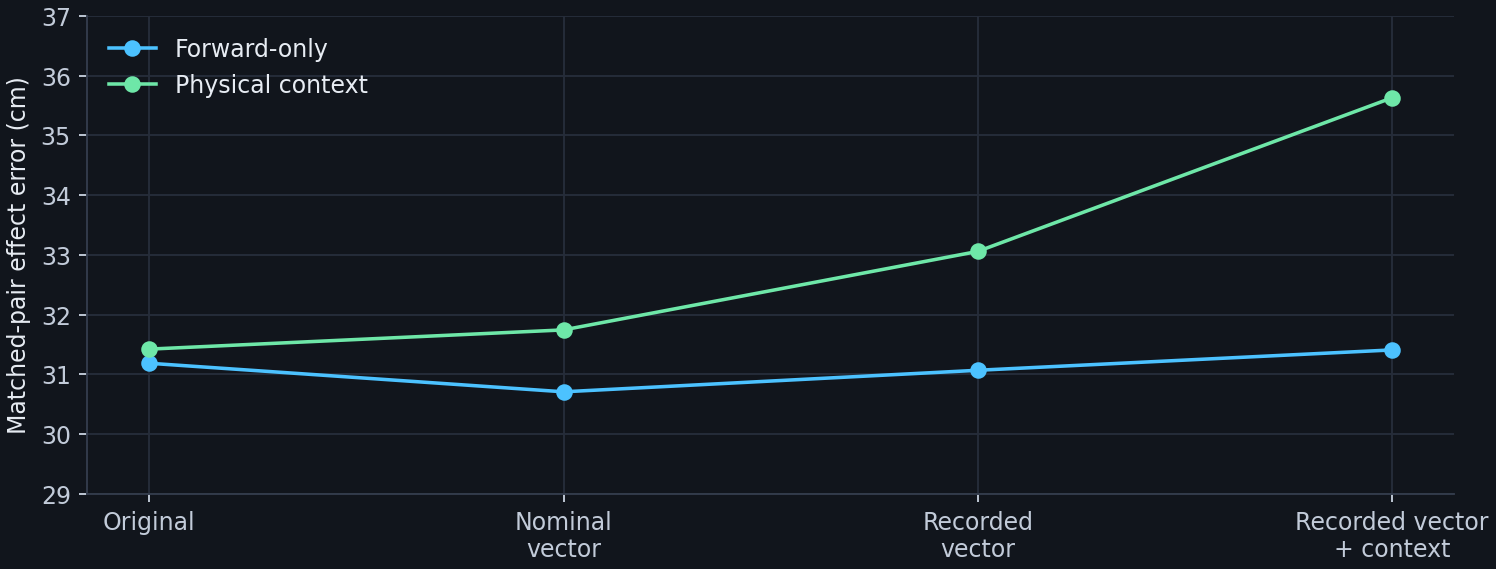
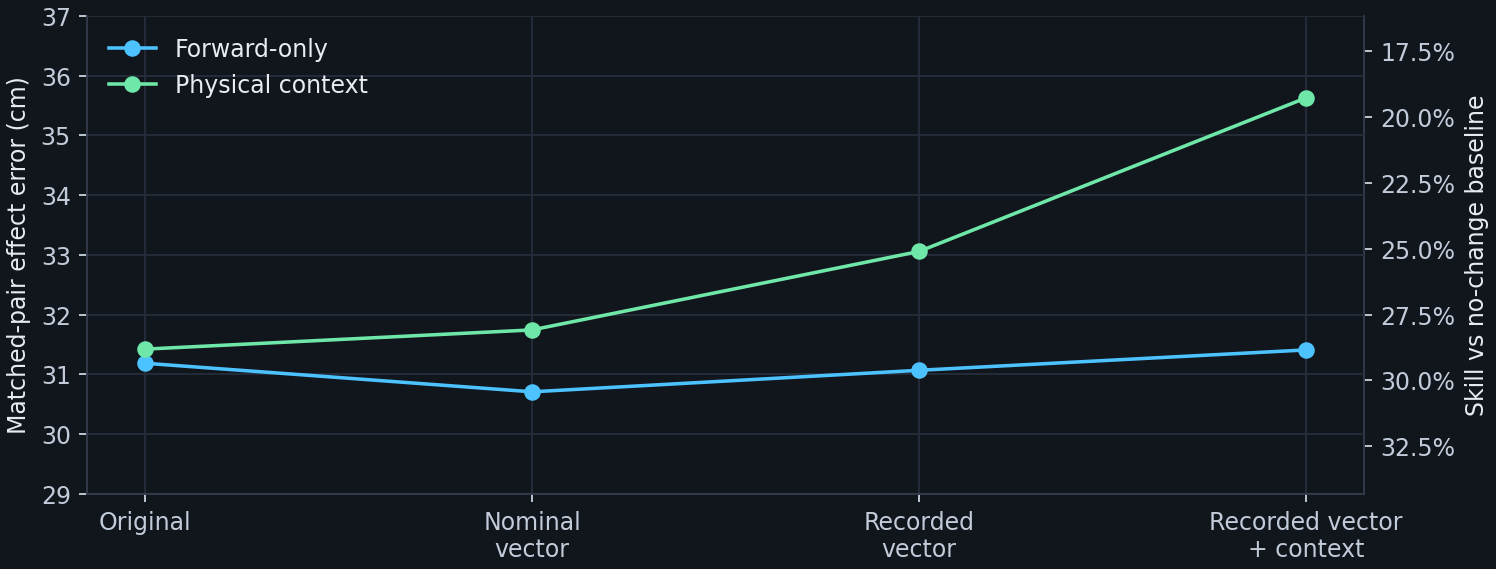
docs: show M0 skill against static baseline

diff --git a/m0/index.html b/m0/index.html
@@ -17,8 +17,31 @@
       Each ran for 3,750 optimizer steps with seed 1 and was evaluated on the same
       100 matched scene families.</p>
 
+    <section class="result-card" id="effect-skill" aria-labelledby="skill-heading">
+      <h2 id="skill-heading">Matched-pair skill by effect size</h2>
+      <p>Skill is one minus total model error divided by total no-change baseline error.
+        A score of 100% is perfect, 0% ties the baseline, and a negative score is worse.
+        Each group contains 100 pairs, sorted by the size of the simulator's endpoint change.</p>
+      <figure>
+        <a href="effect-skill.png"><img src="effect-skill.png" width="1496" height="629"
+          alt="All recipes beat the no-change baseline for medium and strong effects. The weak-effect estimates have wider confidence intervals."></a>
+        <figcaption>Intervals resample scene families from seed 1. The cutoffs use the ground-truth endpoint change between each original and altered push.</figcaption>
+      </figure>
+      <div class="result-table" tabindex="0" role="region" aria-label="Skill by effect size">
+        <table>
+          <thead><tr><th scope="col">Training recipe</th><th scope="col">All pairs</th><th scope="col">Weak<br>&lt;13.9 cm</th><th scope="col">Medium<br>13.9–46.0 cm</th><th scope="col">Strong<br>≥46.0 cm</th></tr></thead>
+          <tbody>
+            <tr><th scope="row">Forward-only</th><td>28.3%</td><td>18.3%</td><td>40.6%</td><td>25.9%</td></tr>
+            <tr><th scope="row">Inverse dynamics</th><td>29.5%</td><td>25.1%</td><td>44.1%</td><td>26.1%</td></tr>
+            <tr><th scope="row">Physical context</th><td>29.0%</td><td>27.2%</td><td>42.3%</td><td>25.8%</td></tr>
+            <tr><th scope="row">Both</th><td>24.9%</td><td>17.1%</td><td>36.8%</td><td>22.4%</td></tr>
+          </tbody>
+        </table>
+      </div>
+    </section>
+
     <section class="result-card" aria-labelledby="screen-heading">
-      <h2 id="screen-heading">Matched-pair effect error</h2>
+      <h2 id="screen-heading">Preregistered screen in centimeters</h2>
       <p>None of the arms earned a second seed. The screen required at least
         2.21 cm less error than forward-only, a paired 95% interval above zero,
         and a passing missing-pair check. All arms had zero missing target pairs.</p>
@@ -51,11 +74,38 @@
 
     <section class="result-card" aria-labelledby="force-heading">
       <h2 id="force-heading">Out-of-range pushes</h2>
+      <p>All four models trail the static baseline for weak pushes and beat it for strong pushes.
+        These groups use push speed. The matched-pair groups above use the size of the simulator's endpoint change.</p>
       <figure>
-        <a href="force-buckets.png"><img src="force-buckets.png" width="1496" height="595" loading="lazy"
-          alt="A static prediction has the smallest error on weak pushes. Forward-only has the smallest error on strong pushes."></a>
-        <figcaption>Mean endpoint error of the pushed object, over 250 episodes per group. The weak and strong panels use different horizontal scales.</figcaption>
+        <a href="force-skill.png"><img src="force-skill.png" width="1496" height="595" loading="lazy"
+          alt="All four models have negative skill on weak pushes and positive skill on strong pushes."></a>
+        <figcaption>Skill is based on the pushed object's endpoint over 250 episodes per group. The panels use different horizontal scales.</figcaption>
       </figure>
+      <details>
+        <summary>View endpoint errors in centimeters</summary>
+        <figure>
+          <a href="force-buckets.png"><img src="force-buckets.png" width="1496" height="595" loading="lazy"
+            alt="A static prediction has the smallest error on weak pushes. Forward-only has the smallest error on strong pushes."></a>
+        </figure>
+      </details>
+    </section>
+
+    <section class="result-card" aria-labelledby="invariance-heading">
+      <h2 id="invariance-heading">Sensitivity to appearance and camera changes</h2>
+      <p>Recoloring or moving the camera leaves the simulator's physics unchanged.
+        Each percentage is the share of 100 pairs where the predicted target endpoint changed
+        by at most 2 cm in world coordinates.</p>
+      <div class="result-table" tabindex="0" role="region" aria-label="Prediction changes within 2 centimeters">
+        <table>
+          <thead><tr><th scope="col">Training recipe</th><th scope="col">Recolor</th><th scope="col">Camera elevation</th></tr></thead>
+          <tbody>
+            <tr><th scope="row">Forward-only</th><td>66%</td><td>19%</td></tr>
+            <tr><th scope="row">Inverse dynamics</th><td>66%</td><td>17%</td></tr>
+            <tr><th scope="row">Physical context</th><td>61%</td><td>16%</td></tr>
+            <tr><th scope="row">Both</th><td>67%</td><td>21%</td></tr>
+          </tbody>
+        </table>
+      </div>
     </section>
 
     <section class="result-card" aria-labelledby="action-heading">
@@ -72,7 +122,7 @@
       <figure>
         <a href="prompt-diagnostic.png"><img src="prompt-diagnostic.png" width="1496" height="569" loading="lazy"
           alt="Neither checkpoint shows lower mean error with the recorded direction plus context than with the original text."></a>
-        <figcaption>We reran the same scene families through two saved checkpoints with different action prompts. Providing the recorded direction or simulator context produced no statistically detectable gain. Every paired 95% interval included zero.</figcaption>
+        <figcaption>We reran the same scene families through two saved checkpoints with different action prompts. The right axis shows skill on the same pairs. Providing the recorded direction or simulator context produced no statistically detectable gain. Every paired 95% interval included zero.</figcaption>
       </figure>
     </section>
   </main>

diff --git a/m0/results.css b/m0/results.css
@@ -27,6 +27,8 @@
 .results figure a { display: block; }
 .results figure img { display: block; width: 100%; height: auto; }
 .results figcaption { margin-top: 10px; font-size: 14px; }
+.results details { margin-top: 12px; }
+.results summary { width: fit-content; color: var(--accent); cursor: pointer; }
 .result-table { overflow-x: auto; margin-top: 12px; }
 .result-table table { width: 100%; border-collapse: collapse; font-variant-numeric: tabular-nums; }
 .result-table th, .result-table td { padding: 8px; border-bottom: 1px solid var(--line); text-align: left; }
